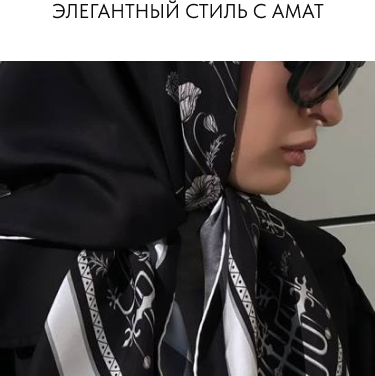
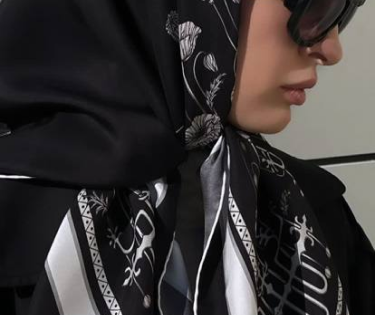
Фото-контейнер

diff --git a/index.html b/index.html
@@ -144,7 +144,7 @@
                                 <p class="swipe__image-description">
                                     «Даймохк»
                                 </p>
-                                <p class="swipe__collection-link">
+                                <p class="swipe__collection- links">
                                     <a href="/index.html"> Смотреть </a>
                                 </p>
                             </div>
@@ -157,7 +157,7 @@
                                 <p class="swipe__image-description">
                                     «Даймохк»
                                 </p>
-                                <p class="swipe__collection-link">
+                                <p class="swipe__collection-link links">
                                     <a href="/index.html"> Смотреть </a>
                                 </p>
                             </div>
@@ -170,10 +170,10 @@
             </div>
     </main>
     <section class="history">
+        <div class="history__photo-container">
+            <img src="images/history.png" />
+        </div>
         <div class="wrapper">
-            <div class="history__photo-container">
-                <img src="images/history.png" />
-            </div>
             <div class="history__logo-container">
                 <img src="images/logo-pic.svg" />
             </div>
@@ -186,7 +186,7 @@
                 Автор создаёт образы, которые навеяны чувством любви к родине, 
                 матери, природе — ко всему прекрасному.
             </p>
-            <p class="history__link">
+            <p class="history__link links">
                 <a href="/index.html">  Откройте для себя мир Амат </a>
             </p>
         </div>
@@ -223,6 +223,12 @@
                     <a href="/index.html">Твилли</a>    
                 </h3>
             </div>
+            <div class="collections__photo-container" id="last-cont">
+                <img src="images/title1.png" />
+                <h3 class="collections__photo-description">
+                    <a href="/index.html">Шарфы</a>    
+                </h3>
+            </div>
             <marquee class="marquee"> 
                 индивидуальность 
                 <div class="marq-dot"></div> гармония 
@@ -231,8 +237,30 @@
         </div>
     </section>
     <section class="style">
+        <h3 class="style__title">Элегантный стиль с Амат</h3>
+        <div class="style__video-container">
+            <!-- <video></video> -->
+            <img src="images/style.png" alt="Элегантный стиль с Амат">
+        </div>
         <div class="wrapper">
-            <h2 class="style__title">Элегантный стиль с Амат</h2>
+            <p class="style__text">
+                Стилист Aurea Donna рассказывает о модных трендах 2023
+            </p>
+            <h3 class="style__title" id="gifts-title"> Искусство дарить</h3>
+            <div class="style__photo-container">
+                <img src="images/gifts.png" alt="Платки на подарки">
+            </div>
+            <p class="style__text"> Платки AMAT — это эксклюзив, это сувенир. 
+                Это ценный и желанный подарок для прекрасной половины человечества.
+            </p>
+            <p class="style__link links">
+                <a href="/index.html">  Выбрать подарок </a>
+            </p>
+
+
+
+
+
            
         </div>
     </section>

diff --git a/style.scss b/style.scss
@@ -45,7 +45,24 @@ $textWhite50: rgba(255, 255, 255, 0.5);
     font-display: swap;
 }
 
-
+.links {
+    font-family: Tilda Sans;
+    font-size: 14px;
+    font-weight: 500;
+    line-height: 14px;
+    letter-spacing: -0.01em;
+    text-align: center;
+    a {
+    text-decoration: none;
+    text-transform: uppercase;
+    color: $textBlack10;
+    }
+    a:hover {
+        border-bottom: 1px solid $textBlack10;
+        transition-duration: 1.5s;
+        text-decoration: none;
+    }
+}
 @mixin list {
     list-style: none;
     padding: 0;
@@ -62,6 +79,15 @@ $textWhite50: rgba(255, 255, 255, 0.5);
 * {
     box-sizing: border-box;
 }
+.links {
+    font-family: Tilda Sans;
+    font-size: 14px;
+    font-weight: 500;
+    line-height: 14px;
+    letter-spacing: -0.01em;
+    text-align: center;
+
+}
 
 //////////////* Главная *///////////////
 body {
@@ -69,6 +95,8 @@ body {
     font-family: "Tilda Sans";
     padding: 0;
     margin: 0;
+    color: $textBlack10;
+    background: #fff;
 }
 .wrapper {
     margin: auto;
@@ -358,14 +386,16 @@ body {
 }
 .swipe__collection-link a {
     color: black;
+    font-size: 14px;
     text-decoration: none;
-    
+    transition-duration: 1.5s;
+    text-transform: uppercase;
 }
 
-.swipe__collection-link a:hover,
-.swipe__collection-link a:active {
+.swipe__collection-link a:hover {
     border-bottom: 1px solid $textBlack10;
-    transform: 1s;
+    transition-duration: 1.5s;
+    text-decoration: none;
 }
 .swipe__image-description {
     font-size: 20px;
@@ -377,13 +407,17 @@ body {
 }
 ////////HISTORY////////
 .history__photo-container {
-    position: relative;
-    left: -16px;
-    top: 48px;
+    margin-top: 46px;
+    width: 100%;
+    height: auto;
+    overflow: hidden;
+    img {
+        width: 100%;
+    }
 }
 .history__logo-container {
     text-align: center;
-    margin: 88px 0 32px 0;
+    margin: 40px 0 40px 0;
 }
 .history__title {
     font-size: 20px;
@@ -403,8 +437,10 @@ body {
     text-align: left;
     color: #0F0E0E;
 }
-
 .history__link {
+    margin: 64px 0 49px 0;
+}
+.history__link a {
     font-size: 14px;
     font-weight: 500;
     line-height: 17px;
@@ -414,11 +450,9 @@ body {
     text-transform: uppercase;
     margin-top: 56px;
     margin-bottom: 12px;
-    a {
     border-bottom: 1px solid #0C0C0C;
-    padding: 4px;
+    padding-bottom: 4px;
     @include links;
-    }
 }
 /////////////////////////Collections////////////////
 .collections {
@@ -464,7 +498,6 @@ body {
     letter-spacing: 0em;
     text-align: center;
 
-
 }
 .marq-dot {
     background: $accentred;
@@ -473,7 +506,37 @@ body {
     height: 6px;
     display: inline-block;
     margin: 4px 20px;
+}
 
+
+////////////////////STYLE//////////////////
+.style__title {
+    font-family: Tilda Sans;
+    font-size: 20px;
+    font-weight: 400;
+    line-height: 24px;
+    letter-spacing: -0.01em;
+    text-align: center;
+    text-transform: uppercase;
+    margin-top: 104px;
+    margin-bottom: 36px;
+}
+#gifts-title {
+    text-align: left;
+}
+.style__video-container,
+.style__photo-container {
+    width: 100%;
+    height: auto;
+    margin: 0px auto 0px auto;
+    overflow: hidden;
+    img {
+        width: 100%;
+    }
+}
+.style__text {
+    margin: 24px 0 118px 0;
+    text-align: left;
 }
 //////////*************MOBILE**********//////////
 @media screen and (max-width: 376px) {

diff --git a/style.css b/style.css
@@ -15,14 +15,40 @@
   font-weight: 300;
   font-style: normal;
   font-display: swap; }
+.links {
+  font-family: Tilda Sans;
+  font-size: 14px;
+  font-weight: 500;
+  line-height: 14px;
+  letter-spacing: -0.01em;
+  text-align: center; }
+  .links a {
+    text-decoration: none;
+    text-transform: uppercase;
+    color: #0f0e0e; }
+  .links a:hover {
+    border-bottom: 1px solid #0f0e0e;
+    transition-duration: 1.5s;
+    text-decoration: none; }
+
 * {
   box-sizing: border-box; }
+
+.links {
+  font-family: Tilda Sans;
+  font-size: 14px;
+  font-weight: 500;
+  line-height: 14px;
+  letter-spacing: -0.01em;
+  text-align: center; }
 
 body {
   background: white;
   font-family: "Tilda Sans";
   padding: 0;
-  margin: 0; }
+  margin: 0;
+  color: #0f0e0e;
+  background: #fff; }
 
 .wrapper {
   margin: auto;
@@ -301,12 +327,15 @@ body {
 
 .swipe__collection-link a {
   color: black;
-  text-decoration: none; }
+  font-size: 14px;
+  text-decoration: none;
+  transition-duration: 1.5s;
+  text-transform: uppercase; }
 
-.swipe__collection-link a:hover,
-.swipe__collection-link a:active {
+.swipe__collection-link a:hover {
   border-bottom: 1px solid #0f0e0e;
-  transform: 1s; }
+  transition-duration: 1.5s;
+  text-decoration: none; }
 
 .swipe__image-description {
   font-size: 20px;
@@ -317,13 +346,16 @@ body {
   color: #0F0E0E; }
 
 .history__photo-container {
-  position: relative;
-  left: -16px;
-  top: 48px; }
+  margin-top: 46px;
+  width: 100%;
+  height: auto;
+  overflow: hidden; }
+  .history__photo-container img {
+    width: 100%; }
 
 .history__logo-container {
   text-align: center;
-  margin: 88px 0 32px 0; }
+  margin: 40px 0 40px 0; }
 
 .history__title {
   font-size: 20px;
@@ -343,6 +375,9 @@ body {
   color: #0F0E0E; }
 
 .history__link {
+  margin: 64px 0 49px 0; }
+
+.history__link a {
   font-size: 14px;
   font-weight: 500;
   line-height: 17px;
@@ -351,11 +386,10 @@ body {
   color: #0F0E0E;
   text-transform: uppercase;
   margin-top: 56px;
-  margin-bottom: 12px; }
-  .history__link a {
-    border-bottom: 1px solid #0C0C0C;
-    padding: 4px;
-    text-decoration: none; }
+  margin-bottom: 12px;
+  border-bottom: 1px solid #0C0C0C;
+  padding-bottom: 4px;
+  text-decoration: none; }
 
 .collections {
   background: #0C0C0C; }
@@ -401,6 +435,34 @@ body {
   height: 6px;
   display: inline-block;
   margin: 4px 20px; }
+
+.style__title {
+  font-family: Tilda Sans;
+  font-size: 20px;
+  font-weight: 400;
+  line-height: 24px;
+  letter-spacing: -0.01em;
+  text-align: center;
+  text-transform: uppercase;
+  margin-top: 104px;
+  margin-bottom: 36px; }
+
+#gifts-title {
+  text-align: left; }
+
+.style__video-container,
+.style__photo-container {
+  width: 100%;
+  height: auto;
+  margin: 0px auto 0px auto;
+  overflow: hidden; }
+  .style__video-container img,
+  .style__photo-container img {
+    width: 100%; }
+
+.style__text {
+  margin: 24px 0 118px 0;
+  text-align: left; }
 
 @media screen and (max-width: 376px) {
   .body {
